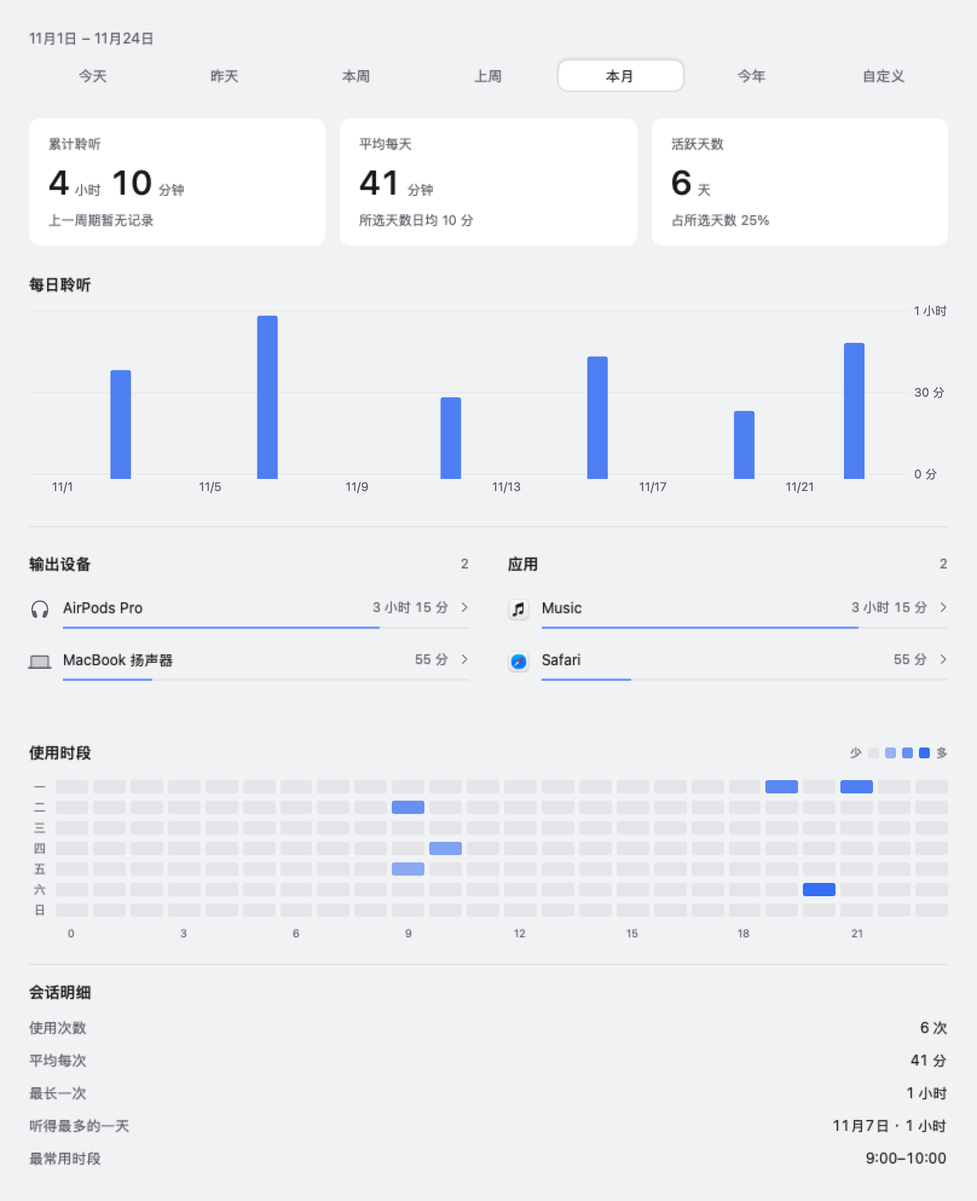
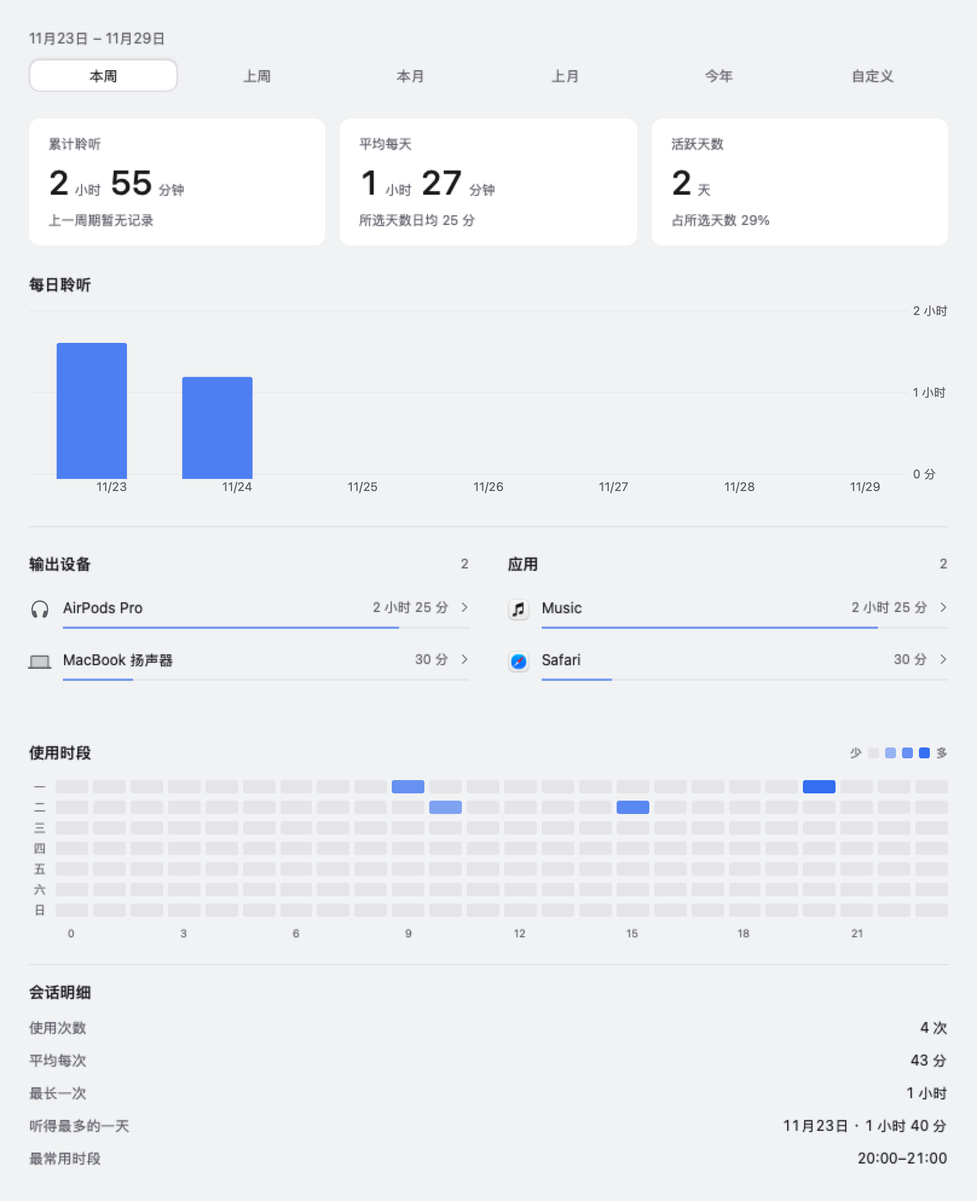
feat(release): prepare auxmo 0.4.10
1. 精简统计快捷日期范围并默认使用本周
2. 本周每日聆听固定展示完整七天
3. 更新 0.4.10 版本、构建号和双语发布说明

diff --git a/Sources/Auxmo/UI/Statistics/ListeningStatisticsPeriod.swift b/Sources/Auxmo/UI/Statistics/ListeningStatisticsPeriod.swift
@@ -13,16 +13,15 @@ struct ListeningDailyAverages {
 
 /// 快捷范围按用户本地日历计算；一周固定从周一开始，与统计热力图一致。
 enum ListeningStatisticsPeriod: CaseIterable, Identifiable {
-    case today, yesterday, week, lastWeek, month, year, custom
+    case week, lastWeek, month, lastMonth, year, custom
 
     var id: Self { self }
     var title: String {
         switch self {
-        case .today: return "今天"
-        case .yesterday: return "昨天"
         case .week: return "本周"
         case .lastWeek: return "上周"
         case .month: return "本月"
+        case .lastMonth: return "上月"
         case .year: return "今年"
         case .custom: return "自定义"
         }
@@ -30,11 +29,10 @@ enum ListeningStatisticsPeriod: CaseIterable, Identifiable {
 
     var englishTitle: String {
         switch self {
-        case .today: return "Today"
-        case .yesterday: return "Yesterday"
         case .week: return "This Week"
         case .lastWeek: return "Last Week"
         case .month: return "This Month"
+        case .lastMonth: return "Last Month"
         case .year: return "This Year"
         case .custom: return "Custom"
         }
@@ -45,26 +43,32 @@ enum ListeningStatisticsPeriod: CaseIterable, Identifiable {
         let start: Date
         let end: Date
         switch self {
-        case .today:
-            start = today; end = today
-        case .yesterday:
-            start = calendar.date(byAdding: .day, value: -1, to: today)!; end = start
-        case .week, .lastWeek:
+        case .week:
             let mondayOffset = (calendar.component(.weekday, from: today) + 5) % 7
             let thisMonday = calendar.date(byAdding: .day, value: -mondayOffset, to: today)!
-            if self == .week {
-                start = thisMonday; end = today
-            } else {
-                start = calendar.date(byAdding: .day, value: -7, to: thisMonday)!
-                end = calendar.date(byAdding: .day, value: -1, to: thisMonday)!
-            }
+            start = thisMonday
+            // 本周按完整自然周展示，未来日期保留为零值柱，保证七天刻度始终完整。
+            end = calendar.date(byAdding: .day, value: 6, to: thisMonday)!
+        case .lastWeek:
+            let mondayOffset = (calendar.component(.weekday, from: today) + 5) % 7
+            let thisMonday = calendar.date(byAdding: .day, value: -mondayOffset, to: today)!
+            start = calendar.date(byAdding: .day, value: -7, to: thisMonday)!
+            end = calendar.date(byAdding: .day, value: -1, to: thisMonday)!
         case .month:
             start = calendar.dateInterval(of: .month, for: today)!.start; end = today
+        case .lastMonth:
+            // 上月范围从原月第一天到本月第一天前一日，按本地日历跨月计算。
+            let thisMonthStart = calendar.dateInterval(of: .month, for: today)!.start
+            start = calendar.date(byAdding: .month, value: -1, to: thisMonthStart)!
+            end = calendar.date(byAdding: .day, value: -1, to: thisMonthStart)!
         case .year:
             start = calendar.dateInterval(of: .year, for: today)!.start; end = today
         case .custom:
             guard let customRange else { preconditionFailure("自定义日期范围尚未设置") }
             start = customRange.lowerBound; end = customRange.upperBound
+        }
+        if self == .week {
+            return (0...6).map { calendar.date(byAdding: .day, value: $0, to: start)! }
         }
         return ListeningDateRange(start: start, end: end, now: date, calendar: calendar).days(calendar: calendar)
     }

diff --git a/Tests/AuxmoPanelTests/ListeningStatisticsPeriodTests.swift b/Tests/AuxmoPanelTests/ListeningStatisticsPeriodTests.swift
@@ -17,18 +17,21 @@ struct ListeningStatisticsPeriodTests {
     @Test func statisticsNavigationAndRangesHaveEnglishLabels() {
         #expect(L10n.text("观测", language: .english) == "Insights")
         #expect(L10n.text("统计", language: .english) == "Statistics")
-        #expect(ListeningStatisticsPeriod.allCases.map(\.englishTitle) == ["Today", "Yesterday", "This Week", "Last Week", "This Month", "This Year", "Custom"])
+        #expect(ListeningStatisticsPeriod.allCases.map(\.title) == ["本周", "上周", "本月", "上月", "今年", "自定义"])
+        #expect(ListeningStatisticsPeriod.allCases.map(\.englishTitle) ==
+                ["This Week", "Last Week", "This Month", "Last Month", "This Year", "Custom"])
     }
 
     @Test @MainActor func changingRangeClearsSelectionAndExpandedRankings() {
         let presentation = ListeningStatisticsPresentation()
+        #expect(presentation.period == .week)
         presentation.hoveredChartDate = Date()
         presentation.allDevices = true
         presentation.allApplications = true
 
-        presentation.selectPeriod(.week)
+        presentation.selectPeriod(.month)
 
-        #expect(presentation.period == .week)
+        #expect(presentation.period == .month)
         #expect(presentation.hoveredChartDate == nil)
         #expect(!presentation.allDevices)
         #expect(!presentation.allApplications)
@@ -41,13 +44,14 @@ struct ListeningStatisticsPeriodTests {
         func day(_ month: Int, _ day: Int) -> Date {
             calendar.date(from: DateComponents(year: 2026, month: month, day: day))!
         }
-        #expect(ListeningStatisticsPeriod.today.days(endingAt: now, calendar: calendar) == [day(11, 25)])
-        #expect(ListeningStatisticsPeriod.yesterday.days(endingAt: now, calendar: calendar) == [day(11, 24)])
         let week = ListeningStatisticsPeriod.week.days(endingAt: now, calendar: calendar)
-        #expect(week.first == (day(11, 23)) && week.last == (day(11, 25)))
+        #expect(week.count == 7 && week.first == (day(11, 23)) && week.last == (day(11, 29)))
         let lastWeek = ListeningStatisticsPeriod.lastWeek.days(endingAt: now, calendar: calendar)
         #expect(lastWeek.count == 7 && lastWeek.first == (day(11, 16)) && lastWeek.last == (day(11, 22)))
         #expect(ListeningStatisticsPeriod.month.days(endingAt: now, calendar: calendar).first == (day(11, 1)))
+        let lastMonth = ListeningStatisticsPeriod.lastMonth.days(endingAt: now, calendar: calendar)
+        #expect(lastMonth.first == day(10, 1))
+        #expect(lastMonth.last == day(10, 31))
         #expect(ListeningStatisticsPeriod.year.days(endingAt: now, calendar: calendar).first == (day(1, 1)))
     }
 

diff --git a/Sources/Auxmo/UI/Statistics/ListeningStatisticsView.swift b/Sources/Auxmo/UI/Statistics/ListeningStatisticsView.swift
@@ -43,6 +43,8 @@ struct ListeningStatisticsView: View {
     private var chartRange: ListeningDateRange {
         ListeningDateRange(start: days[0], end: days[days.count - 1], now: now, calendar: calendar)
     }
+    private var displayStart: Date { days[0] }
+    private var displayEnd: Date { days[days.count - 1] }
     private var since: Date { chartRange.start }
     private var until: Date { chartRange.until }
     private var selectedDayCount: Int { days.count }
@@ -152,7 +154,7 @@ struct ListeningStatisticsView: View {
     private var periodPicker: some View {
         VStack(alignment: .leading, spacing: 10) {
             // 日期控件分两层；窄窗口也不会把日期标签和按钮挤在同一行。
-            Text("\(rangeDateLabel(chartRange.start)) – \(rangeDateLabel(chartRange.end))")
+            Text("\(rangeDateLabel(displayStart)) – \(rangeDateLabel(displayEnd))")
                 .font(PanelStyle.bodyFont).foregroundStyle(PanelStyle.secondary)
             HStack(spacing: 4) {
                 ForEach(ListeningStatisticsPeriod.allCases) { item in
@@ -810,7 +812,7 @@ struct ListeningStatisticsView: View {
 
     /// 窄面板缩短日期格式，给时间范围控件保留完整的点击宽度。
     private func rangeDateLabel(_ date: Date) -> String {
-        calendar.component(.year, from: since) != calendar.component(.year, from: days[days.count - 1])
+        calendar.component(.year, from: displayStart) != calendar.component(.year, from: displayEnd)
             ? date.formatted(Date.FormatStyle().year().month(.defaultDigits).day().locale(displayLocale))
             : (compact ? date.formatted(Date.FormatStyle().month(.defaultDigits).day().locale(displayLocale)) : dateLabel(date))
     }
@@ -829,7 +831,7 @@ struct ListeningStatisticsView: View {
 /// 交互状态随视图实例保存；与音频采样、持久化记录保持独立。
 @MainActor
 final class ListeningStatisticsPresentation: ObservableObject {
-    @Published private(set) var period: ListeningStatisticsPeriod = .month
+    @Published private(set) var period: ListeningStatisticsPeriod = .week
     @Published var hoveredChartDate: Date?
     @Published var customStart = Calendar.current.startOfDay(for: Date())
     @Published var customEnd = Calendar.current.startOfDay(for: Date())

diff --git a/Tests/AuxmoPanelTests/StatisticsReadmePreviewTests.swift b/Tests/AuxmoPanelTests/StatisticsReadmePreviewTests.swift
@@ -22,12 +22,10 @@ struct StatisticsReadmePreviewTests {
         calendar.timeZone = try #require(TimeZone(identifier: "Asia/Shanghai"))
         let now = try #require(calendar.date(from: DateComponents(year: 2026, month: 11, day: 24, hour: 18)))
         let data: [(Int, Int, String, String, String, String, ListeningDeviceKind, Double)] = [
-            (-21, 9, "headphones", "AirPods Pro", "bundle:com.apple.Music", "Music", .headphones, 2400),
-            (-17, 20, "headphones", "AirPods Pro", "bundle:com.apple.Music", "Music", .headphones, 3600),
-            (-12, 10, "speakers", code == "en" ? "MacBook Speakers" : "MacBook 扬声器", "bundle:com.apple.Safari", "Safari", .builtInSpeaker, 1800),
-            (-8, 19, "headphones", "AirPods Pro", "bundle:com.apple.Music", "Music", .headphones, 2700),
-            (-4, 9, "speakers", code == "en" ? "MacBook Speakers" : "MacBook 扬声器", "bundle:com.apple.Safari", "Safari", .builtInSpeaker, 1500),
-            (-1, 21, "headphones", "AirPods Pro", "bundle:com.apple.Music", "Music", .headphones, 3000)
+            (-1, 9, "headphones", "AirPods Pro", "bundle:com.apple.Music", "Music", .headphones, 2400),
+            (-1, 20, "headphones", "AirPods Pro", "bundle:com.apple.Music", "Music", .headphones, 3600),
+            (0, 10, "speakers", code == "en" ? "MacBook Speakers" : "MacBook 扬声器", "bundle:com.apple.Safari", "Safari", .builtInSpeaker, 1800),
+            (0, 15, "headphones", "AirPods Pro", "bundle:com.apple.Music", "Music", .headphones, 2700)
         ]
         let buckets = try data.flatMap { day, hour, uid, device, appID, app, kind, seconds -> [ListeningStatisticsBucket] in
             let dayStart = try #require(calendar.date(byAdding: .day, value: day, to: calendar.startOfDay(for: now)))

diff --git a/Tests/AuxmoCoreTests/SystemAudioTests.swift b/Tests/AuxmoCoreTests/SystemAudioTests.swift
@@ -356,5 +356,5 @@ struct SystemAudioTests {
         #expect(!SystemAudio.activeAggregateRouteContains("other", composition: composition as CFDictionary, activeUIDs: ["other"]))
     }
 
-    @Test func versionIsDefined() { #expect(AuxmoVersion.current == "0.4.9") }
+    @Test func versionIsDefined() { #expect(AuxmoVersion.current == "0.4.10") }
 }

diff --git a/Sources/AuxmoCore/AuxmoVersion.swift b/Sources/AuxmoCore/AuxmoVersion.swift
@@ -1,6 +1,6 @@
 /// 版本定义独立于界面，便于诊断入口与菜单栏共用。
 public enum AuxmoVersion {
-    public static let current = "0.4.9"
+    public static let current = "0.4.10"
 }
 
 /// 发布标签与 App 版号共用同一套比较规则，正确处理 0.1.10 大于 0.1.9。

diff --git a/README.md b/README.md
@@ -18,9 +18,9 @@
   <a href="docs/CHANGELOG.md">What's changed</a>
 </p>
 <p align="center">
-  <a href="docs/images/hero-en.png"><img src="docs/images/hero-en.png?v=0.4.9" width="440" alt="Auxmo output panel with speaker and headphone controls, independent Chrome and Music volumes, and per-app route buttons" /></a>
+  <a href="docs/images/hero-en.png"><img src="docs/images/hero-en.png?v=0.4.10" width="440" alt="Auxmo output panel with speaker and headphone controls, independent Chrome and Music volumes, and per-app route buttons" /></a>
 </p>
-<p align="center"><sub>UI previews use sample devices and apps rendered by Auxmo 0.4.9, not a live audio session. <a href="docs/images/README.md">Image sources</a>.</sub></p>
+<p align="center"><sub>UI previews use sample devices and apps rendered by Auxmo 0.4.10, not a live audio session. <a href="docs/images/README.md">Image sources</a>.</sub></p>
 
 > Free and open source. No account required. Current downloads are ad-hoc signed and **not notarized by Apple**; macOS may block launch. [Distribution details](docs/TRUST_AND_TESTING.md#distribution-and-permissions).
 
@@ -39,36 +39,36 @@ Use **Mute All** at the top-right of the main panel to temporarily mute app audi
 <td width="50%" valign="top">
 <h3>Mix apps independently</h3>
 <p>Give Chrome and Music different volumes, mute either app, and see live levels while the panel is open.</p>
-<a href="docs/images/mixer-en.png"><img src="docs/images/mixer-en.png?v=0.4.9" width="440" alt="Separate Chrome and Music volume sliders with effects and routing buttons" /></a>
+<a href="docs/images/mixer-en.png"><img src="docs/images/mixer-en.png?v=0.4.10" width="440" alt="Separate Chrome and Music volume sliders with effects and routing buttons" /></a>
 </td>
 <td width="50%" valign="top">
 <h3>Choose more than one output</h3>
 <p>Build a speaker-and-headphone group, keep individual device controls, and choose a different subset for each app.</p>
-<a href="docs/images/outputs-en.png"><img src="docs/images/outputs-en.png?v=0.4.9" width="440" alt="Multi-device output editor with speakers and AirPods Pro selected" /></a>
+<a href="docs/images/outputs-en.png"><img src="docs/images/outputs-en.png?v=0.4.10" width="440" alt="Multi-device output editor with speakers and AirPods Pro selected" /></a>
 </td>
 </tr>
 <tr>
 <td width="50%" valign="top">
 <h3>Shape each app's sound</h3>
 <p>A 10-band EQ, spatial effects, volume leveling, and channel controls. Save presets and compare with the original.</p>
-<a href="docs/images/effects-en.png"><img src="docs/images/effects-en.png?v=0.4.9" width="440" alt="Music effects window showing the ten-band equalizer, response preview, and Compare Original control" /></a>
+<a href="docs/images/effects-en.png"><img src="docs/images/effects-en.png?v=0.4.10" width="440" alt="Music effects window showing the ten-band equalizer, response preview, and Compare Original control" /></a>
 </td>
 <td width="50%" valign="top">
 <h3>Keep headphone controls nearby</h3>
 <p>Check battery levels and change the listening modes your exact model exposes. Controls vary by device and firmware.</p>
-<a href="docs/images/headphones-en.png"><img src="docs/images/headphones-en.png?v=0.4.9" width="440" alt="Example headphone battery readings with noise cancellation, transparency, and adaptive controls" /></a>
+<a href="docs/images/headphones-en.png"><img src="docs/images/headphones-en.png?v=0.4.10" width="440" alt="Example headphone battery readings with noise cancellation, transparency, and adaptive controls" /></a>
 </td>
 </tr>
 </table>
 
 ## See your listening habits
 
-Open the detail window from the menu bar and choose **Insights → Statistics** to see listening totals, daily trends, device and app rankings, listening hours, and session details. Choose today, yesterday, this week, last week, this month, this year, or a custom range; select a device or app to see its own details and related rankings.
+Open the detail window from the menu bar and choose **Insights → Statistics** to see listening totals, daily trends, device and app rankings, listening hours, and session details. Choose this week, last week, this month, last month, this year, or a custom range; select a device or app to see its own details and related rankings.
 
 <p align="center">
-  <a href="docs/images/statistics-en.png"><img src="docs/images/statistics-en.png?v=0.4.9" width="820" alt="Auxmo listening statistics preview with time range, listening totals, daily chart, output devices, app rankings, and listening-hours heatmap" /></a>
+  <a href="docs/images/statistics-en.png"><img src="docs/images/statistics-en.png?v=0.4.10" width="820" alt="Auxmo listening statistics preview with time range, listening totals, daily chart, output devices, app rankings, and listening-hours heatmap" /></a>
 </p>
-<p align="center"><sub>Statistics preview rendered from version 0.4.9 with sample data, not a real user's records. <a href="docs/images/README.md">Image sources</a>.</sub></p>
+<p align="center"><sub>Statistics preview rendered from version 0.4.10 with sample data, not a real user's records. <a href="docs/images/README.md">Image sources</a>.</sub></p>
 
 Statistics record audio activity observed while Auxmo runs on the Mac and are stored locally. They are not complete screen-time data and do not read iPhone Health data. App-to-device associations use confirmed output routes; historical records, sampling intervals, and session boundaries remain estimates. In **Settings → Statistics Data**, you can see the first recorded date, export JSON, or clear the records after confirmation.
 

diff --git a/README.zh-CN.md b/README.zh-CN.md
@@ -18,9 +18,9 @@
   <a href="docs/CHANGELOG.md">更新记录</a>
 </p>
 <p align="center">
-  <a href="docs/images/hero-zh.png"><img src="docs/images/hero-zh.png?v=0.4.9" width="440" alt="Auxmo 主面板：扬声器、耳机、多设备输出，以及 Chrome 和 Music 的独立音量与路由按钮" /></a>
+  <a href="docs/images/hero-zh.png"><img src="docs/images/hero-zh.png?v=0.4.10" width="440" alt="Auxmo 主面板：扬声器、耳机、多设备输出，以及 Chrome 和 Music 的独立音量与路由按钮" /></a>
 </p>
-<p align="center"><sub>界面预览由 Auxmo 0.4.9 使用示例设备和应用数据渲染，并非实时音频会话。<a href="docs/images/README.md">图片来源</a>。</sub></p>
+<p align="center"><sub>界面预览由 Auxmo 0.4.10 使用示例设备和应用数据渲染，并非实时音频会话。<a href="docs/images/README.md">图片来源</a>。</sub></p>
 
 > 免费、开源，无需账号。当前下载包使用 ad-hoc 签名，**尚未经过 Apple 公证**，macOS 可能阻止启动。[分发与权限说明](docs/TRUST_AND_TESTING.md#中文说明)。
 
@@ -39,36 +39,36 @@
 <td width="50%" valign="top">
 <h3>每个 App，单独调节</h3>
 <p>给 Chrome 和 Music 设置不同音量，单独静音；面板打开时可查看实时电平。</p>
-<a href="docs/images/mixer-zh.png"><img src="docs/images/mixer-zh.png?v=0.4.9" width="440" alt="Chrome 与 Music 的独立音量滑杆、音效和路由入口" /></a>
+<a href="docs/images/mixer-zh.png"><img src="docs/images/mixer-zh.png?v=0.4.10" width="440" alt="Chrome 与 Music 的独立音量滑杆、音效和路由入口" /></a>
 </td>
 <td width="50%" valign="top">
 <h3>一个输出组，多种去向</h3>
 <p>把扬声器和耳机加入同一组，保留各设备的独立控制，再为每个 App 选择组内输出。</p>
-<a href="docs/images/outputs-zh.png"><img src="docs/images/outputs-zh.png?v=0.4.9" width="440" alt="多设备输出编辑器中同时勾选 MacBook 扬声器与 AirPods Pro" /></a>
+<a href="docs/images/outputs-zh.png"><img src="docs/images/outputs-zh.png?v=0.4.10" width="440" alt="多设备输出编辑器中同时勾选 MacBook 扬声器与 AirPods Pro" /></a>
 </td>
 </tr>
 <tr>
 <td width="50%" valign="top">
 <h3>按 App 调整听感</h3>
 <p>十段 EQ、空间效果、音量均衡与声道控制。保存自己的预设，也能随时对比原声。</p>
-<a href="docs/images/effects-zh.png"><img src="docs/images/effects-zh.png?v=0.4.9" width="440" alt="Music 音效窗口：十段均衡器、频响预览与对比原声按钮" /></a>
+<a href="docs/images/effects-zh.png"><img src="docs/images/effects-zh.png?v=0.4.10" width="440" alt="Music 音效窗口：十段均衡器、频响预览与对比原声按钮" /></a>
 </td>
 <td width="50%" valign="top">
 <h3>耳机控制，抬手就到</h3>
 <p>查看电量、切换当前型号公开的噪声模式。可用控制项取决于具体设备和固件。</p>
-<a href="docs/images/headphones-zh.png"><img src="docs/images/headphones-zh.png?v=0.4.9" width="440" alt="耳机控制示例：左右耳与充电盒电量、降噪、通透和自适应模式" /></a>
+<a href="docs/images/headphones-zh.png"><img src="docs/images/headphones-zh.png?v=0.4.10" width="440" alt="耳机控制示例：左右耳与充电盒电量、降噪、通透和自适应模式" /></a>
 </td>
 </tr>
 </table>
 
 ## 看看你的聆听习惯
 
-从菜单栏打开详情，选择 **观测 → 统计**，查看累计时长、每日趋势、设备与 App 排行、使用时段和会话明细。可切换今天、昨天、本周、上周、本月、今年或自定义日期范围；点击设备或 App 可以查看对应详情和关联排行。
+从菜单栏打开详情，选择 **观测 → 统计**，查看累计时长、每日趋势、设备与 App 排行、使用时段和会话明细。可切换本周、上周、本月、上月、今年或自定义日期范围；点击设备或 App 可以查看对应详情和关联排行。
 
 <p align="center">
-  <a href="docs/images/statistics-zh.png"><img src="docs/images/statistics-zh.png?v=0.4.9" width="820" alt="Auxmo 聆听统计预览：时间范围、累计时长、每日柱状图、输出设备、应用排行与使用时段热力图" /></a>
+  <a href="docs/images/statistics-zh.png"><img src="docs/images/statistics-zh.png?v=0.4.10" width="820" alt="Auxmo 聆听统计预览：时间范围、累计时长、每日柱状图、输出设备、应用排行与使用时段热力图" /></a>
 </p>
-<p align="center"><sub>统计页预览使用 0.4.9 版本和示例数据，不是实际用户记录。<a href="docs/images/README.md">图片来源</a>。</sub></p>
+<p align="center"><sub>统计页预览使用 0.4.10 版本和示例数据，不是实际用户记录。<a href="docs/images/README.md">图片来源</a>。</sub></p>
 
 统计只记录 Auxmo 在 Mac 上运行时观察到的音频活动，数据保存在本机；它不是完整的屏幕使用时长，也不读取 iPhone 健康数据。应用与设备关系依据可确认的输出路由记录；历史记录、采样间隔和会话划分仍有估算误差。可在 **设置 → 统计数据** 查看记录起始日期、导出 JSON 或确认后清除记录。
 

diff --git a/docs/images/README.md b/docs/images/README.md
@@ -1,13 +1,13 @@
 # README image sources / 图片来源
 
-The PNGs are native renders of Auxmo 0.4.9 SwiftUI/AppKit views using isolated fixtures in [`ReadmePreviewTests.swift`](../../Tests/AuxmoPanelTests/ReadmePreviewTests.swift) and [`StatisticsReadmePreviewTests.swift`](../../Tests/AuxmoPanelTests/StatisticsReadmePreviewTests.swift). They are **UI previews, not captures of a live playback session or proof of hardware compatibility**. Device names, app identities, volume values, battery values, and control replies are illustrative.
+The PNGs are native renders of Auxmo 0.4.10 SwiftUI/AppKit views using isolated fixtures in [`ReadmePreviewTests.swift`](../../Tests/AuxmoPanelTests/ReadmePreviewTests.swift) and [`StatisticsReadmePreviewTests.swift`](../../Tests/AuxmoPanelTests/StatisticsReadmePreviewTests.swift). They are **UI previews, not captures of a live playback session or proof of hardware compatibility**. Device names, app identities, volume values, battery values, and control replies are illustrative.
 
 - `hero-{en,zh}.png`: the actual `AudioPanel` with a two-member group and two example apps.
 - `mixer-{en,zh}.png`: `ApplicationVolumeSection`.
 - `outputs-{en,zh}.png`: `SimultaneousOutputEditor`.
 - `effects-{en,zh}.png`: `ApplicationAudioEffectView`.
 - `headphones-{en,zh}.png`: `HeadphoneSection` using injected Apple headphone readings.
-- `statistics-{en,zh}.png`: `ListeningStatisticsView`, rendered from version 0.4.9 with isolated sample records; they do not contain real user data.
+- `statistics-{en,zh}.png`: `ListeningStatisticsView`, rendered from version 0.4.10 with isolated sample records; they do not contain real user data.
 - `routing-{en,zh}.svg`: a hand-authored configuration diagram, **not an application screenshot**. It assumes both target devices are online.
 
 Regenerate the PNGs on macOS with the Swift 6 toolchain:
@@ -22,6 +22,6 @@ When updating images, inspect both languages, check the UI version, and retain t
 
 ## 中文
 
-PNG 均由 Auxmo 0.4.9 的真实界面原生渲染；数据由隔离夹具提供，不是实时播放录屏，也不能证明某个耳机型号已通过真机测试。设备、App、音量、电量与模式均为示例。SVG 是手写的在线设备路由示意，不是界面截图。
+PNG 均由 Auxmo 0.4.10 的真实界面原生渲染；数据由隔离夹具提供，不是实时播放录屏，也不能证明某个耳机型号已通过真机测试。设备、App、音量、电量与模式均为示例。SVG 是手写的在线设备路由示意，不是界面截图。
 
 运行上面的脚本可重新生成双语图片。每种语言使用独立测试进程，只覆盖进程内参数，不修改用户保存的偏好，不播放或捕获音频、不连接蓝牙、不切换宿主设备。普通门禁不执行图片导出；原有回归测试没有被跳过或改弱。更新后请检查图片并保留来源说明。

diff --git a/docs/CHANGELOG.md b/docs/CHANGELOG.md
@@ -2,6 +2,12 @@
 
 这里保留已记录的版本历史。历史条目描述当时的实现，不代表当前操作方式；当前用法请参阅 README。
 
+## 0.4.10 统计日期范围精简
+
+- 统计快捷范围调整为本周、上周、本月、上月、今年与自定义，默认使用本周。
+- 本周每日聆听固定展示周一至周日完整七天，未来日期保留为零值柱。
+- 版本提升到 0.4.10（51）。
+
 ## 0.4.9 顶栏更新入口对齐修复
 
 - 修复更新胶囊存在跳过按钮留白时，视觉中心低于右侧静音、窗口和设置图标的问题。

diff --git a/docs/releases/0.4.10.md b/docs/releases/0.4.10.md
@@ -1,0 +1,9 @@
+**中文**
+
+- **改进** 统计快捷范围调整为本周、上周、本月、上月、今年与自定义，默认使用本周。
+- **修复** 本周每日聆听固定展示周一至周日完整七天，未来日期保留为零值柱。
+
+**English**
+
+- **Improved** Listening statistics shortcuts now offer this week, last week, this month, last month, this year, and a custom range, with this week selected by default.
+- **Fixed** The daily listening chart for this week now always shows all seven days from Monday through Sunday, leaving future days at zero.
